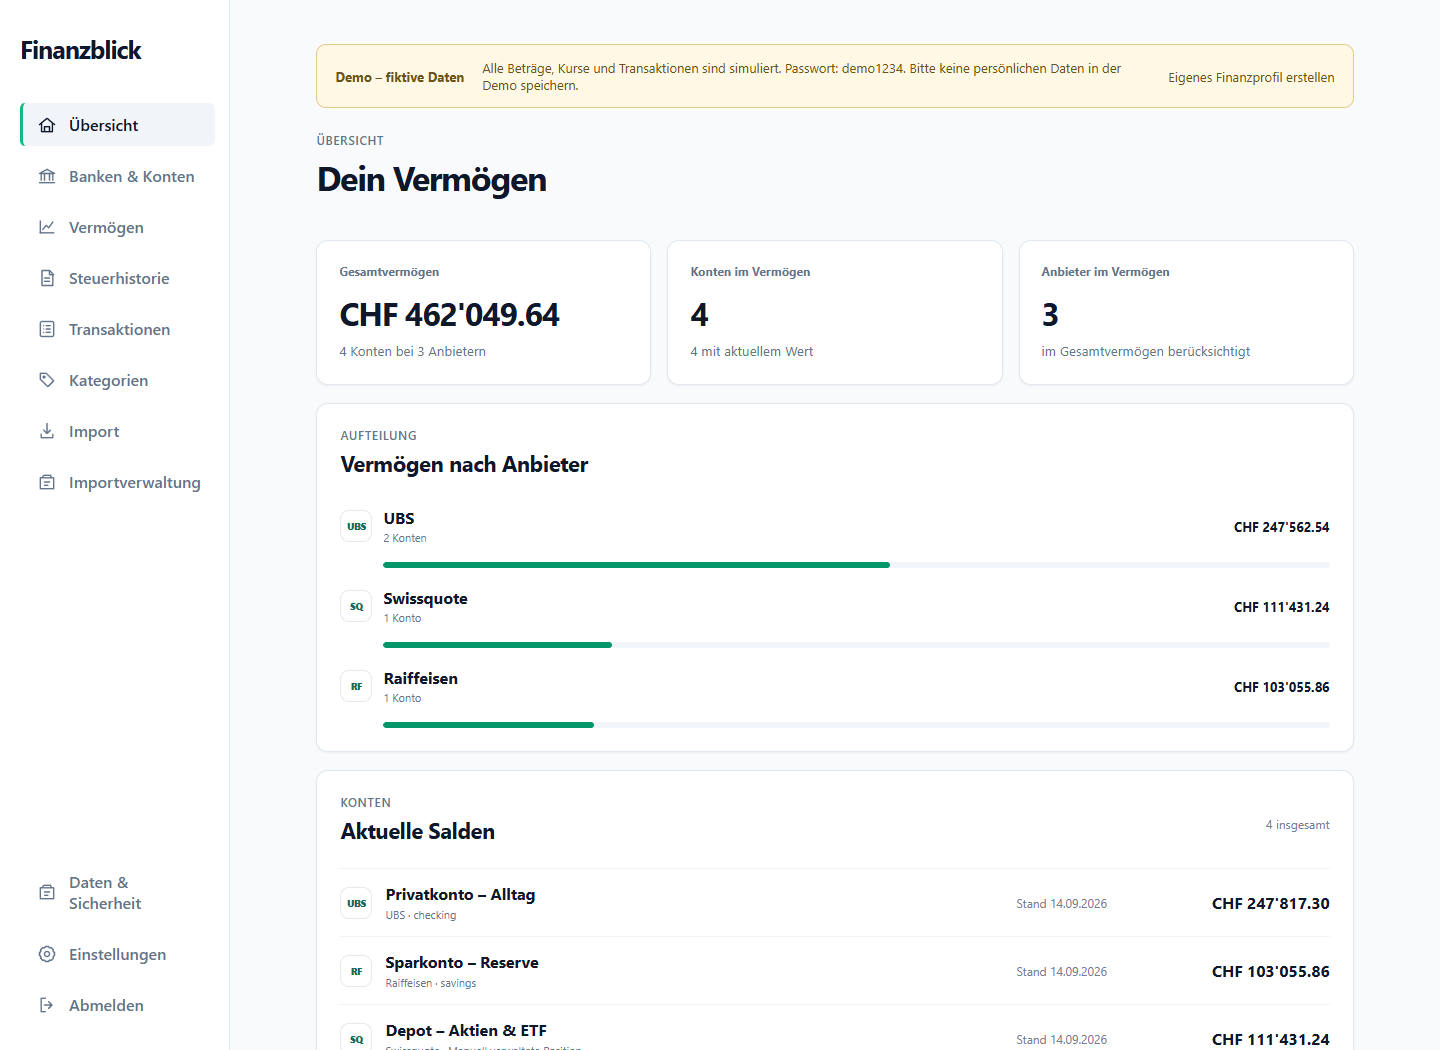
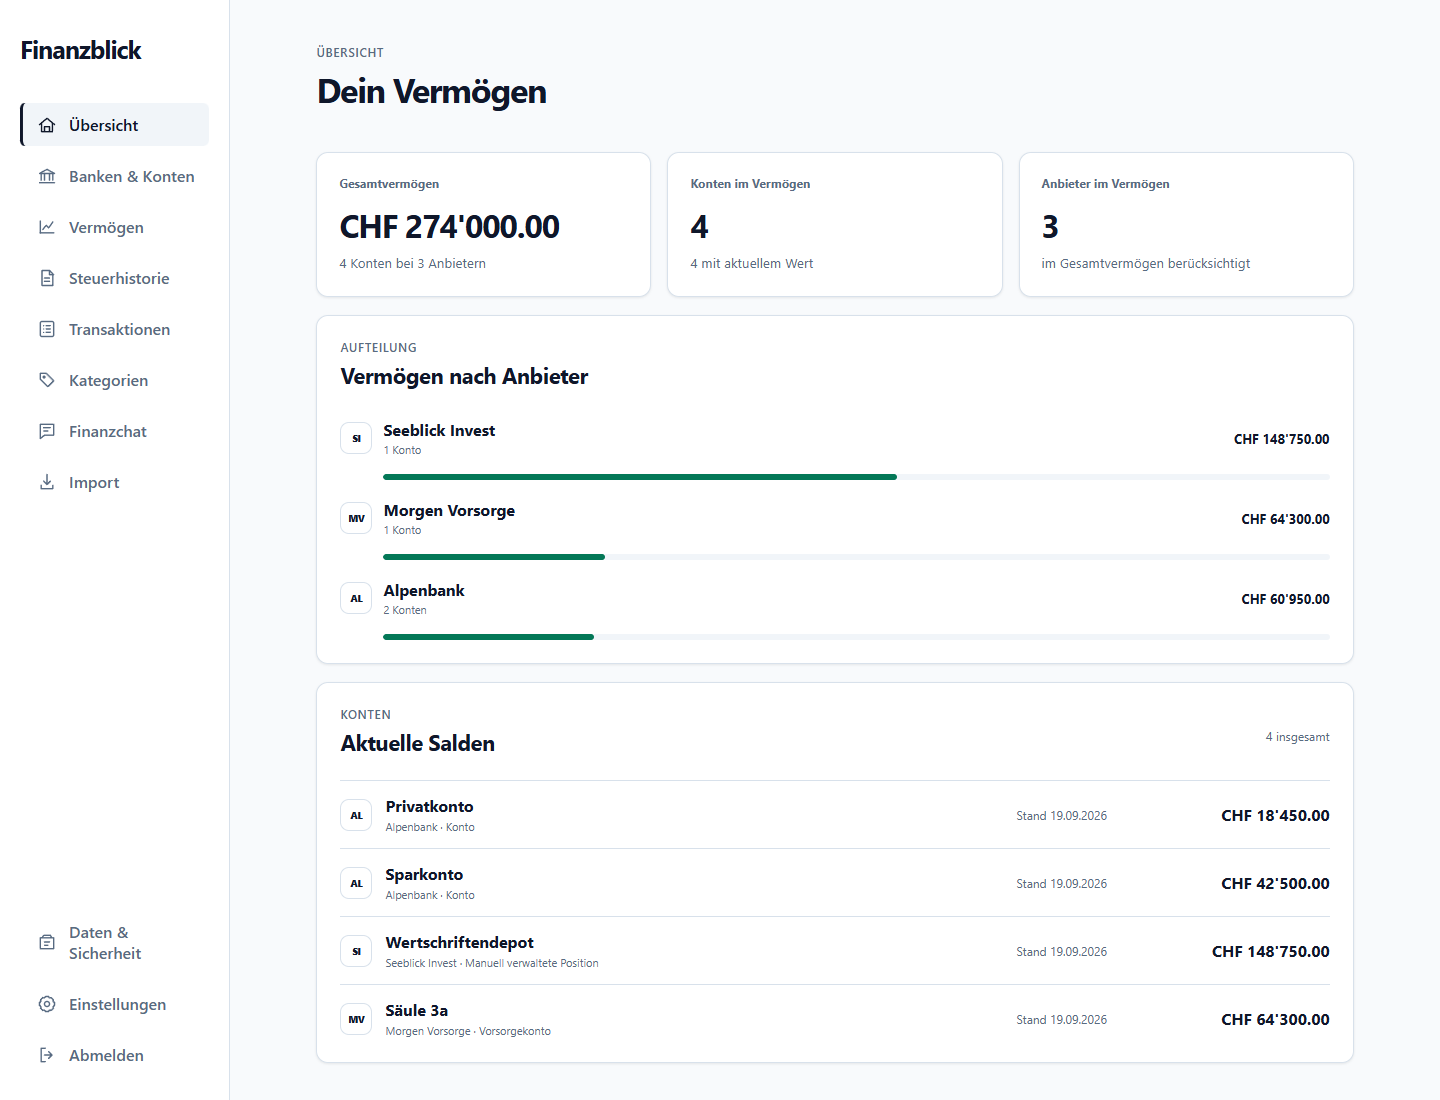
docs: update installer link and screenshots for 0.5.10

diff --git a/README.md b/README.md
@@ -5,7 +5,10 @@ Vermögen und Ausgaben. Ohne Benutzerkonto oder Cloud-Synchronisierung.
 
 ## Windows installieren
 
-[Windows-Installer 0.5.9 herunterladen (64 Bit)](https://github.com/leviathary/Finanzblick/releases/download/v0.5.9/Finanzblick_0.5.9_x64-setup.exe)
+[Windows-Installer 0.5.10 herunterladen (64 Bit)](https://github.com/leviathary/Finanzblick/releases/download/v0.5.10/Finanzblick_0.5.10_x64-setup.exe)
+
+[Release-Notizen](https://github.com/leviathary/Finanzblick/releases/tag/v0.5.10)
+· [SHA-256-Prüfsumme](https://github.com/leviathary/Finanzblick/releases/download/v0.5.10/Finanzblick_0.5.10_x64-setup.exe.sha256)
 
 Die heruntergeladene Datei ausführen. Ein Windows-Entwicklermodus ist nicht nötig.
 Der Installer ist nicht signiert; Windows kann deshalb eine Sicherheitswarnung anzeigen.
@@ -39,17 +42,33 @@ sind noch nicht getestet.
 
 ## Einblick
 
-Die Screenshots zeigen ausschliesslich fiktive Demo-Daten.
+Die Screenshots zeigen die Oberfläche von Version 0.5.10 mit ausschliesslich
+fiktiven Beispieldaten. Konten, Anbieter und Kursverläufe sind erfunden.
+
+### Vermögensübersicht
 
 ![Vermögensübersicht mit Konten und Anbietern](docs/screenshots/uebersicht.png)
 
-![Vermögensentwicklung über acht Jahre](docs/screenshots/vermoegensentwicklung.png)
+### Interaktive Vermögensentwicklung
+
+Zeitraum wählen, mit dem Mausrad zoomen, den Verlauf verschieben oder mit dem
+Messwerkzeug Veränderungen untersuchen. Die Kontexthilfe erklärt die Bedienung.
+
+![Vermögensentwicklung mit interaktivem Chart und kompakter Werkzeugleiste](docs/screenshots/vermoegensentwicklung.png)
+
+### Dark Mode
+
+Unter Einstellungen zwischen heller, dunkler und systemabhängiger Darstellung wechseln.
+
+![Vermögensentwicklung im Dark Mode](docs/screenshots/dark-mode.png)
 
 ## Funktionen
 
 - Bankauszüge aus Excel, CSV, PDF und MT940 importieren und vor dem Speichern prüfen
 - Konten, Aktien, ETFs, Kryptowährungen und Vorsorgevermögen gemeinsam auswerten
 - Vermögensentwicklung, Geldfluss und Steuerhistorie visualisieren
+- Interaktive Vermögenscharts mit Zoom, Messwerkzeug und optionalem Indexvergleich (SMI, S&P 500)
+- Helle, dunkle oder systemabhängige Darstellung wählen
 - Depotpositionen einzeln oder gemeinsam im Verlauf anzeigen; bei einer Position zwischen Wert und Kurs wechseln
 - Transaktionen kategorisieren und Kreditkartenzahlungen ohne Doppelzählung erfassen
 - Unabhängige Finanzprofile erstellen, kopieren, anonymisieren und sichern
